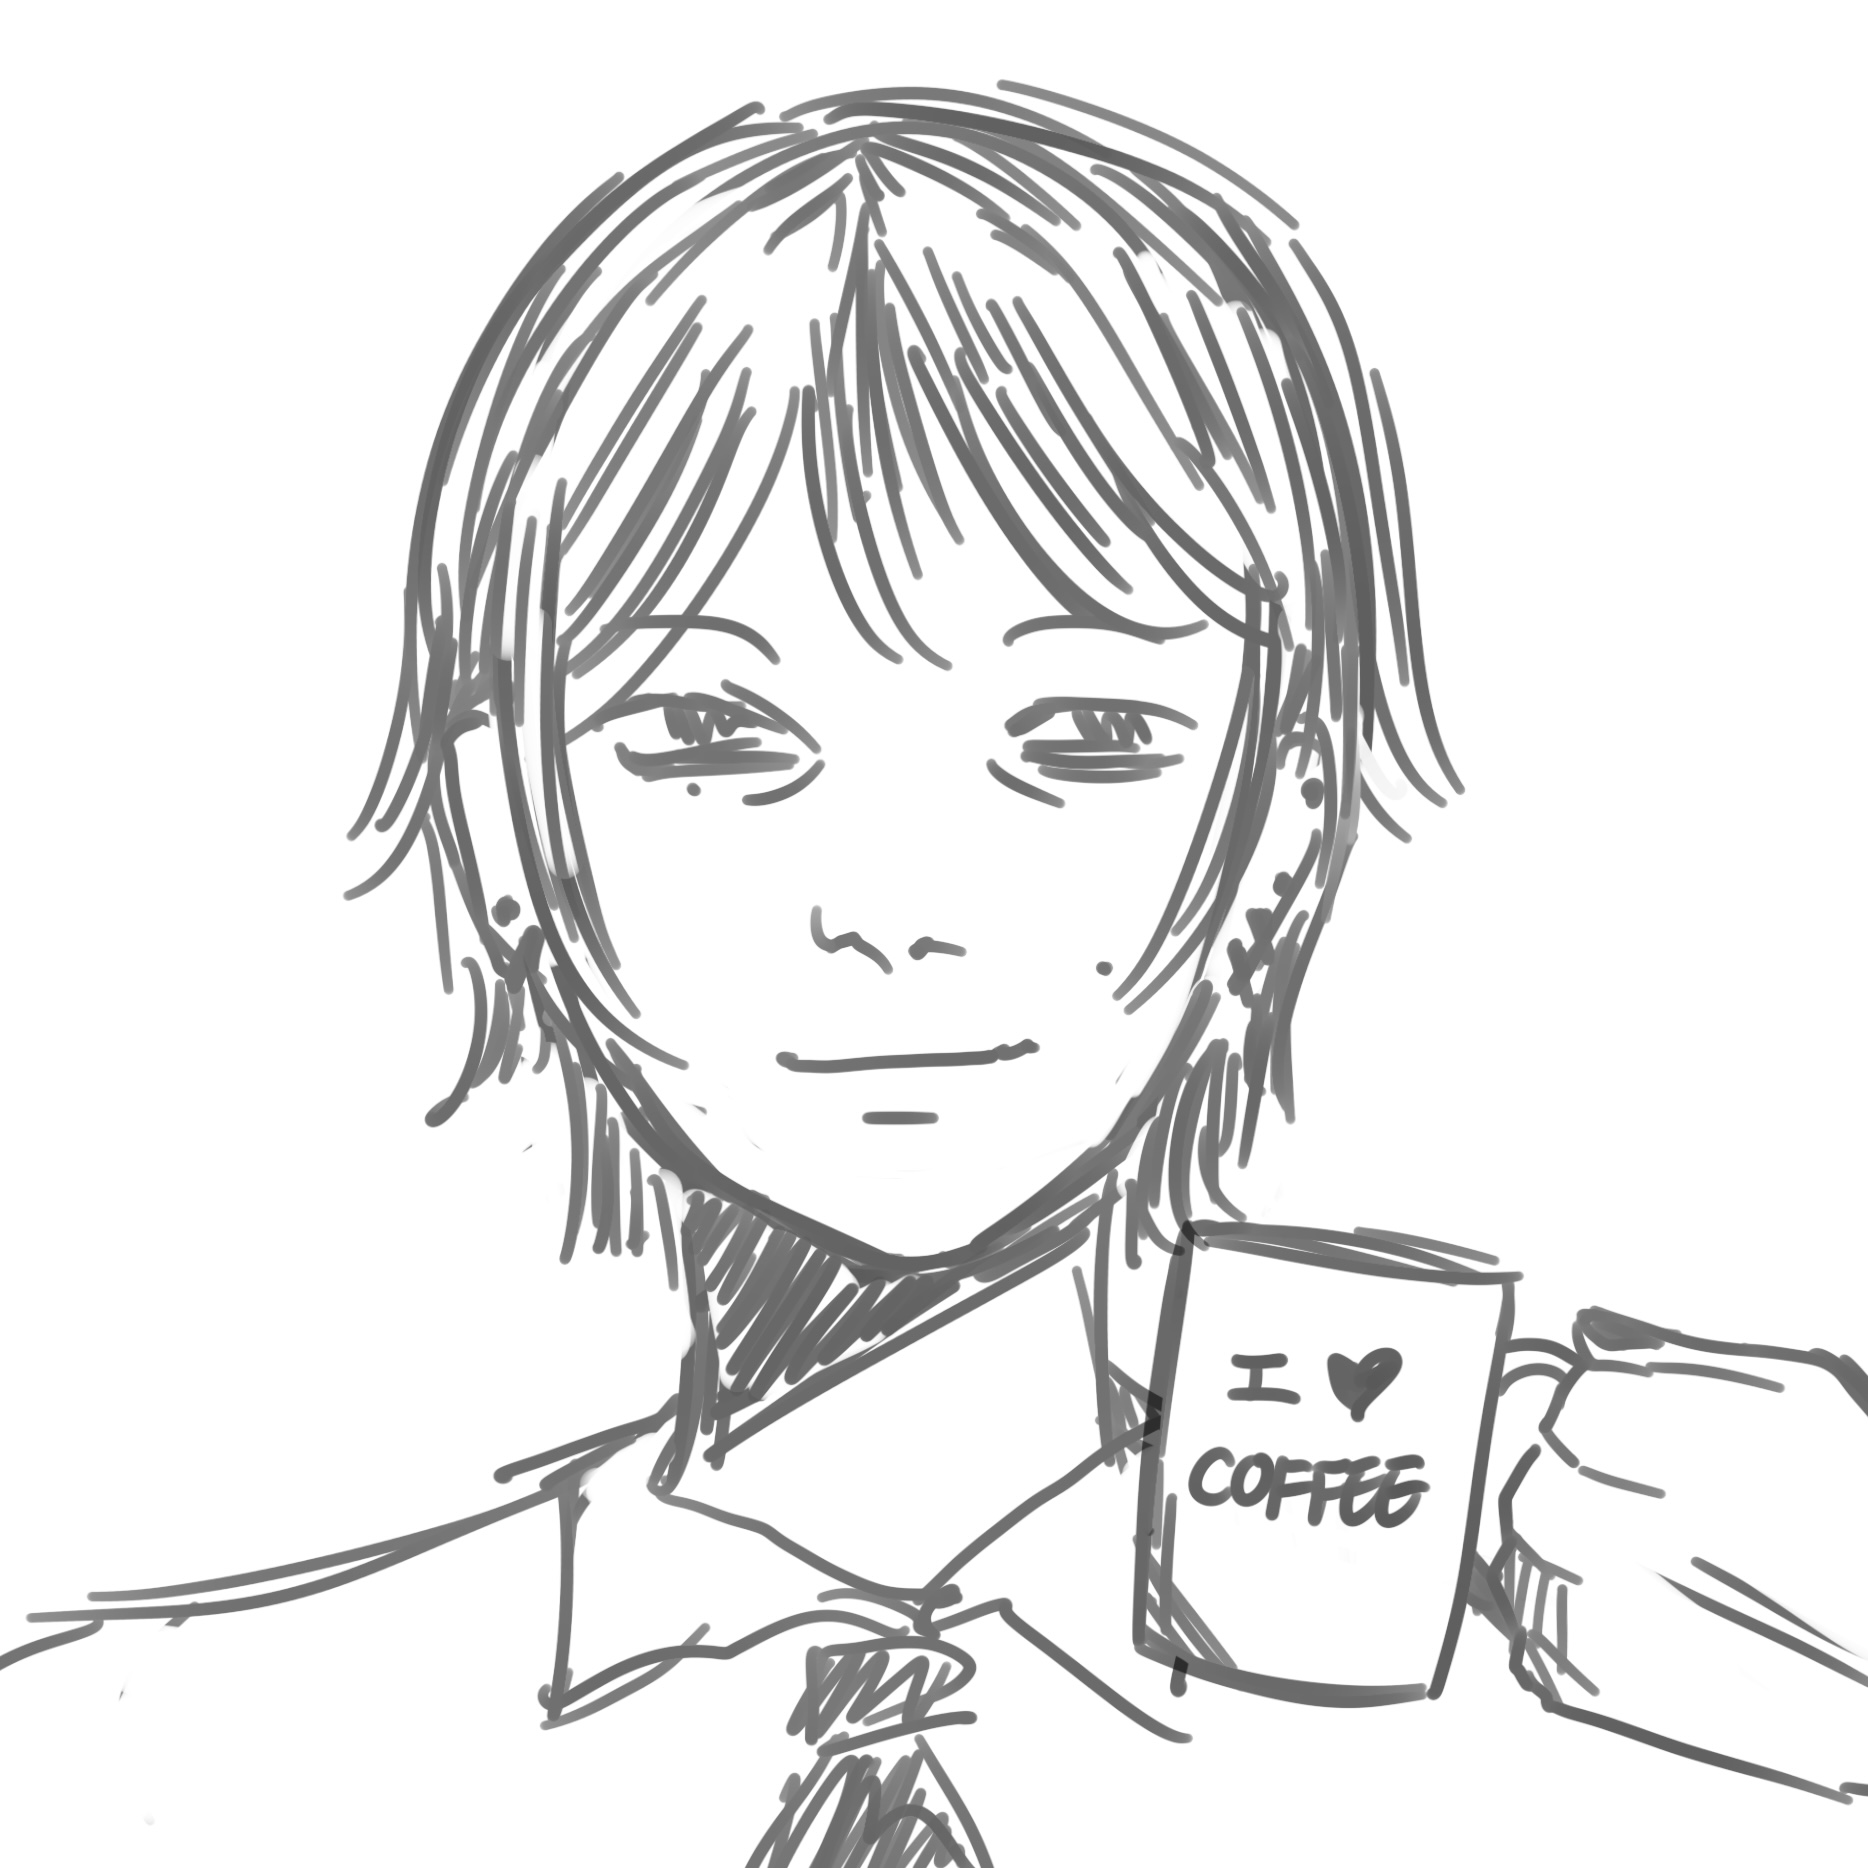
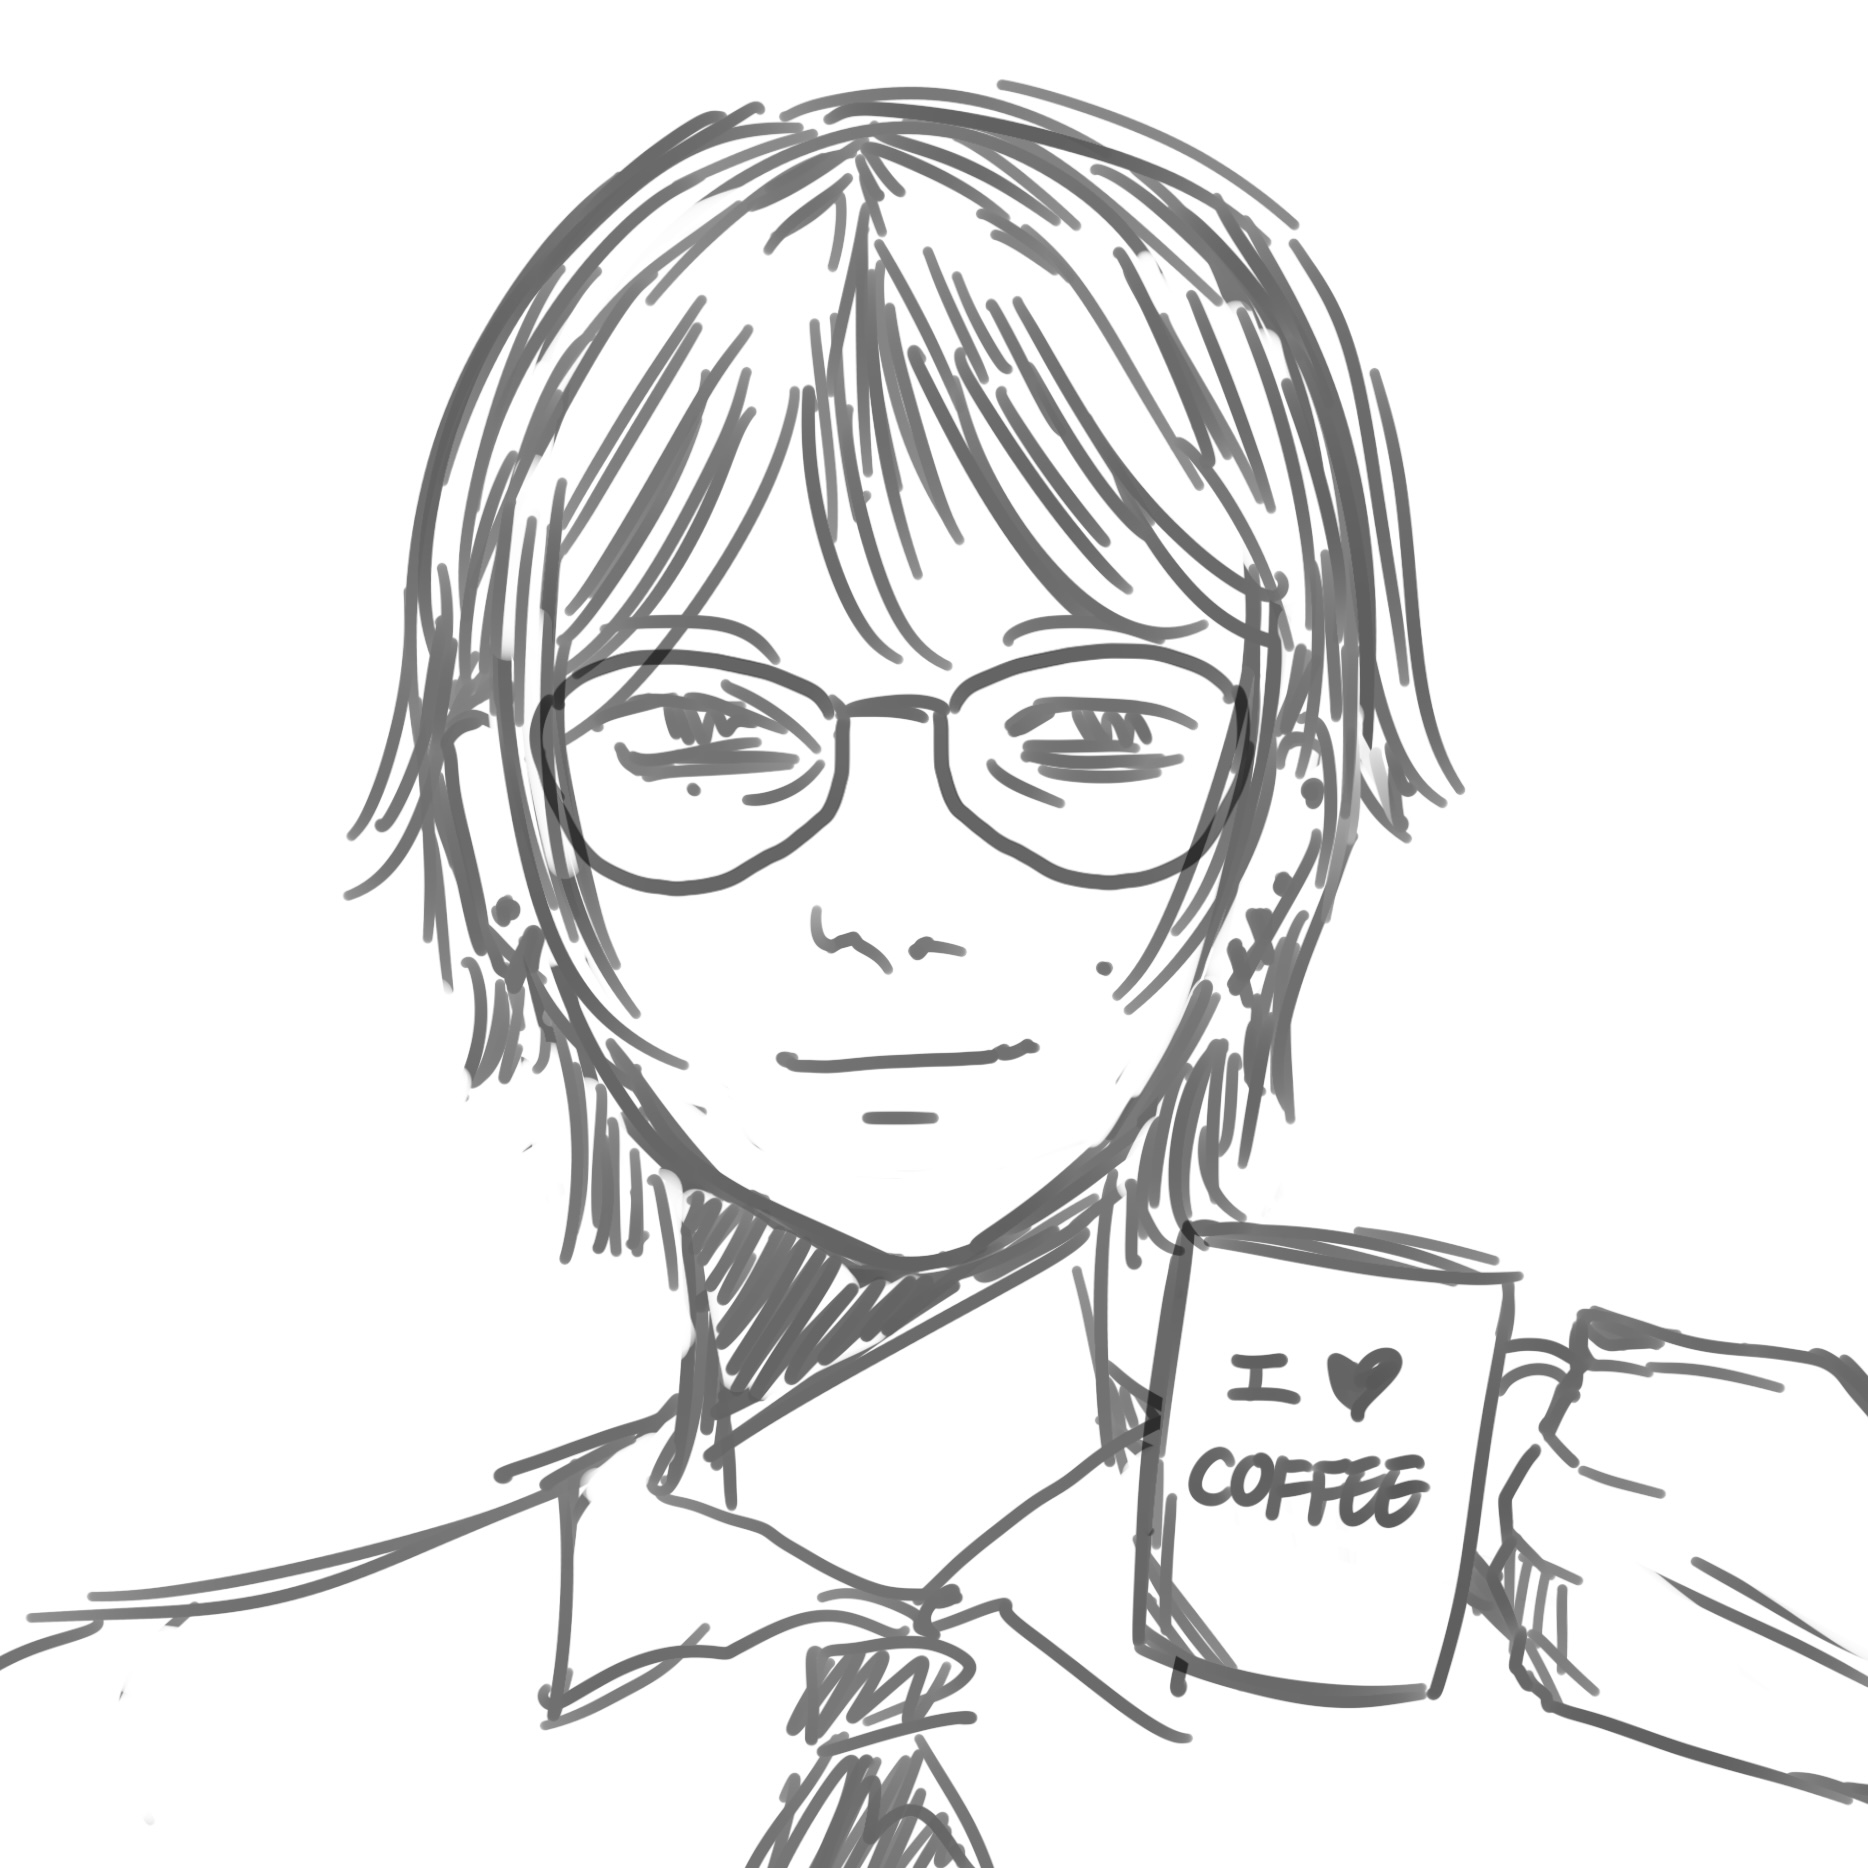
fix layout

diff --git a/index.html b/index.html
@@ -21,41 +21,50 @@
 
         <main class="main">
             <section id="main" class="section">
-                <div>
-                    <img id="personal-pic" src="src/public/pic.png"/>
-                    <h2 id="name-big">ERIN CHUA</h2>
-                    <div id='contact'>
-                        <a href='mailto:chua.erin.g@gmail.com' target="_blank">
-                            <svg xmlns="http://www.w3.org/2000/svg" width="16" height="16" fill="currentColor" className="bi bi-envelope" viewBox="0 0 16 16">
-                                <path d="M0 4a2 2 0 0 1 2-2h12a2 2 0 0 1 2 2v8a2 2 0 0 1-2 2H2a2 2 0 0 1-2-2zm2-1a1 1 0 0 0-1 1v.217l7 4.2 7-4.2V4a1 1 0 0 0-1-1zm13 2.383-4.708 2.825L15 11.105zm-.034 6.876-5.64-3.471L8 9.583l-1.326-.795-5.64 3.47A1 1 0 0 0 2 13h12a1 1 0 0 0 .966-.741M1 11.105l4.708-2.897L1 5.383z"/>
-                            </svg>
-                        </a>
-                        <span> | </span>
-                        <a href='https://github.com/chua-e' target="_blank">
-                            <svg xmlns="http://www.w3.org/2000/svg" width="16" height="16" fill="currentColor" className="bi bi-github" viewBox="0 0 16 16">
-                                <path d="M8 0C3.58 0 0 3.58 0 8c0 3.54 2.29 6.53 5.47 7.59.4.07.55-.17.55-.38 0-.19-.01-.82-.01-1.49-2.01.37-2.53-.49-2.69-.94-.09-.23-.48-.94-.82-1.13-.28-.15-.68-.52-.01-.53.63-.01 1.08.58 1.23.82.72 1.21 1.87.87 2.33.66.07-.52.28-.87.51-1.07-1.78-.2-3.64-.89-3.64-3.95 0-.87.31-1.59.82-2.15-.08-.2-.36-1.02.08-2.12 0 0 .67-.21 2.2.82.64-.18 1.32-.27 2-.27s1.36.09 2 .27c1.53-1.04 2.2-.82 2.2-.82.44 1.1.16 1.92.08 2.12.51.56.82 1.27.82 2.15 0 3.07-1.87 3.75-3.65 3.95.29.25.54.73.54 1.48 0 1.07-.01 1.93-.01 2.2 0 .21.15.46.55.38A8.01 8.01 0 0 0 16 8c0-4.42-3.58-8-8-8"/>
-                            </svg>
-                        </a>
-                        <span> | </span>
-                        <a href='https://www.linkedin.com/in/erin-gabrielle-chua-3619a134a/' target="_blank">
-                            <svg xmlns="http://www.w3.org/2000/svg" width="16" height="16" fill="currentColor" className="bi bi-linkedin" viewBox="0 0 16 16">
-                                <path d="M0 1.146C0 .513.526 0 1.175 0h13.65C15.474 0 16 .513 16 1.146v13.708c0 .633-.526 1.146-1.175 1.146H1.175C.526 16 0 15.487 0 14.854zm4.943 12.248V6.169H2.542v7.225zm-1.2-8.212c.837 0 1.358-.554 1.358-1.248-.015-.709-.52-1.248-1.342-1.248S2.4 3.226 2.4 3.934c0 .694.521 1.248 1.327 1.248zm4.908 8.212V9.359c0-.216.016-.432.08-.586.173-.431.568-.878 1.232-.878.869 0 1.216.662 1.216 1.634v3.865h2.401V9.25c0-2.22-1.184-3.252-2.764-3.252-1.274 0-1.845.7-2.165 1.193v.025h-.016l.016-.025V6.169h-2.4c.03.678 0 7.225 0 7.225z"/>
-                            </svg>
-                        </a>
+                <div id="about-me">
+                    <div class="pic-wrap">
+                        <img id="personal-pic" src="src/public/pic.png"/>
+                        <p>(sorry i have no professional picture of me currently so have this)</p>
                     </div>
-                </div>
+                    <div id="details">
+                        <div id="main-details">
+                            <h2 id="name-big">ERIN GABRIELLE CHUA</h2>
+                            <div class="contact" id='contact'>
+                                <a href='mailto:chua.erin.g@gmail.com' target="_blank">
+                                    <svg xmlns="http://www.w3.org/2000/svg" fill="currentColor" class="bi bi-envelope-fill" viewBox="0 0 16 16">
+                                        <path d="M.05 3.555A2 2 0 0 1 2 2h12a2 2 0 0 1 1.95 1.555L8 8.414zM0 4.697v7.104l5.803-3.558zM6.761 8.83l-6.57 4.027A2 2 0 0 0 2 14h12a2 2 0 0 0 1.808-1.144l-6.57-4.027L8 9.586zm3.436-.586L16 11.801V4.697z"/>
+                                    </svg>
+                                </a>
+                                <span> | </span>
+                                <a href='https://github.com/chua-e' target="_blank">
+                                    <svg xmlns="http://www.w3.org/2000/svg" fill="currentColor" class="bi bi-github" viewBox="0 0 16 16">
+                                        <path d="M8 0C3.58 0 0 3.58 0 8c0 3.54 2.29 6.53 5.47 7.59.4.07.55-.17.55-.38 0-.19-.01-.82-.01-1.49-2.01.37-2.53-.49-2.69-.94-.09-.23-.48-.94-.82-1.13-.28-.15-.68-.52-.01-.53.63-.01 1.08.58 1.23.82.72 1.21 1.87.87 2.33.66.07-.52.28-.87.51-1.07-1.78-.2-3.64-.89-3.64-3.95 0-.87.31-1.59.82-2.15-.08-.2-.36-1.02.08-2.12 0 0 .67-.21 2.2.82.64-.18 1.32-.27 2-.27s1.36.09 2 .27c1.53-1.04 2.2-.82 2.2-.82.44 1.1.16 1.92.08 2.12.51.56.82 1.27.82 2.15 0 3.07-1.87 3.75-3.65 3.95.29.25.54.73.54 1.48 0 1.07-.01 1.93-.01 2.2 0 .21.15.46.55.38A8.01 8.01 0 0 0 16 8c0-4.42-3.58-8-8-8"/>
+                                    </svg>
+                                </a>
+                                <span> | </span>
+                                <a href='https://www.linkedin.com/in/erin-gabrielle-chua-3619a134a/' target="_blank">
+                                    <svg xmlns="http://www.w3.org/2000/svg" fill="currentColor" class="bi bi-linkedin" viewBox="0 0 16 16">
+                                        <path d="M0 1.146C0 .513.526 0 1.175 0h13.65C15.474 0 16 .513 16 1.146v13.708c0 .633-.526 1.146-1.175 1.146H1.175C.526 16 0 15.487 0 14.854zm4.943 12.248V6.169H2.542v7.225zm-1.2-8.212c.837 0 1.358-.554 1.358-1.248-.015-.709-.52-1.248-1.342-1.248S2.4 3.226 2.4 3.934c0 .694.521 1.248 1.327 1.248zm4.908 8.212V9.359c0-.216.016-.432.08-.586.173-.431.568-.878 1.232-.878.869 0 1.216.662 1.216 1.634v3.865h2.401V9.25c0-2.22-1.184-3.252-2.764-3.252-1.274 0-1.845.7-2.165 1.193v.025h-.016l.016-.025V6.169h-2.4c.03.678 0 7.225 0 7.225z"/>
+                                    </svg>
+                                </a>
+                            </div>
+                        </div>
 
-                <div>
-                    <p>Hi! I'm currently a Computer Science undergraduate at De La Salle University. My current degree focuses on software technology and I have an interest focused in research for natural language processing and machine learning. I also enjoy doing creative work (when I can) through graphic design and illustration.</p>
+                        <div id="bio">
+                            <p>Hi! I'm currently a Computer Science undergraduate at De La Salle University. My current degree focuses on software technology and I have an interest focused in research for natural language processing and machine learning. I also enjoy doing creative work (when I can) through graphic design and illustration.</p>
+                        </div>
+                    </div>
                 </div>
             </section>
         </main>
     </div>
 
     <footer>
-        <div id="date"></div>
-        <div> ● </div>
-        <div id="digi-clock">Loading time...</div>
+        <div id="date-time-wrap">
+            <div id="date"></div>
+            <div> ● </div>
+            <div id="digi-clock">Loading time...</div>
+        </div>
     </footer>
     <script type="module" src="src/pages/main.js"></script>
 </body>

diff --git a/src/style.css b/src/style.css
@@ -2,6 +2,8 @@
     --main-dark: #161712;
     --main-light: #e9dfd3;
 
+    --lighter-dark: #2a2b25;
+
     --font-dm: "DM Mono", monospace;
     --font-jet: "JetBrains Mono", monospace;
 }
@@ -52,10 +54,13 @@ h2 {
     width:85%;
     display: flex;
     flex-direction: row;
-    /* background-color: var(--main-light);
-    color: var(--main-dark); */
-    background-color: var(--main-dark);
-    color: var(--main-light);
+    background-color: var(--main-light);
+    color: var(--main-dark);
+    /* background-color: var(--main-dark);
+    color: var(--main-light); */
+    padding: 2.5em;
+    justify-content: center;
+    align-items: center;
 }
 
 .sidebar {
@@ -77,9 +82,64 @@ footer {
     color: var(--main-light);
     padding: 0.5em;
     justify-content: flex-end;
+    outline: 1px solid var(--lighter-dark);
+    font-weight: 100;
+}
+
+#date-time-wrap {
+    display: flex;
+    flex-direction: column;
+    gap: 1em;
+}
+
+.pic-wrap {
+    max-width: 300px;
+    height: auto;
+}
+
+.pic-wrap p{
+    font-size: 0.7em;
 }
 
 #personal-pic {
-    max-width: 20%;
+    max-width: 100%;
     height: auto;
+    outline: 1px solid var(--lighter-dark);
+}
+
+#name-big {
+    font-size: xx-large;
+    padding: none;
+}
+
+.contact {
+    color: var(--lighter-dark);
+    margin: 0%;
+}
+
+.contact svg {
+    color: var(--lighter-dark);
+    width: 1.2rem;
+    height: 1.2rem;
+    vertical-align: middle;
+}
+
+.contact a {
+    text-decoration: none;
+}
+
+#about-me {
+    display: flex;
+    align-items: center;
+    justify-content: center;
+}
+
+#details {
+    display: flex;
+    flex-direction: column;
+    padding: 2em;
+}
+
+#main-details {
+    gap: 0;
 }
